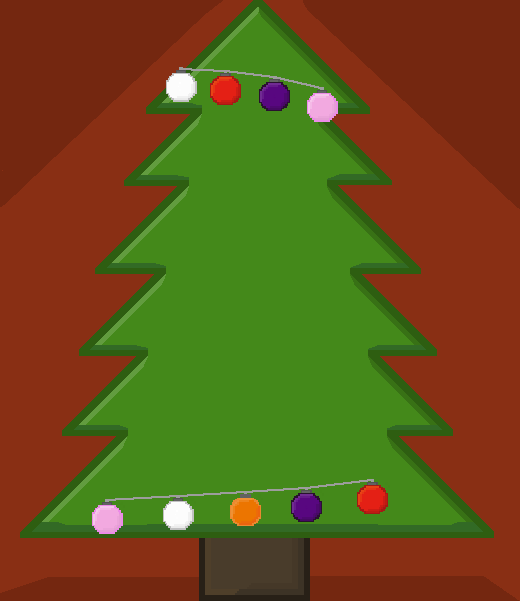
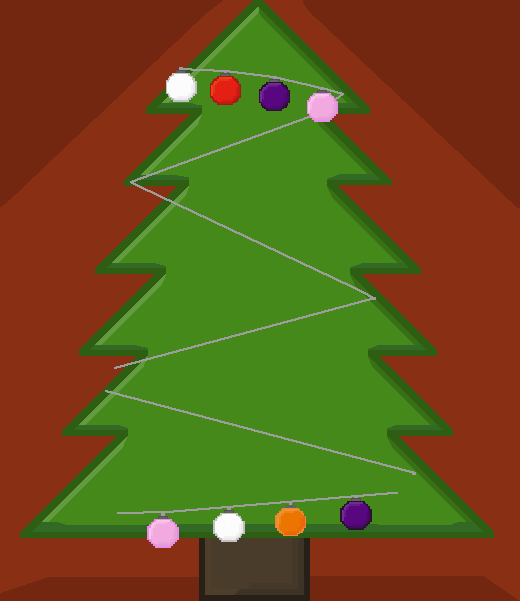
Fixed alignment issues with the tree puzzle

diff --git a/code/Puzzle2.java b/code/Puzzle2.java
@@ -18,17 +18,17 @@ class Puzzle2
 	{
 		// create the window
 		PuzzleTile background = new PuzzleTile(0,0,"images\\knotPuzzle\\tree.png", 520, 601);
-		PuzzleTile selectTool = new PuzzleTile(380,140,"images\\knotPuzzle\\select.png", 35, 35);
+		PuzzleTile selectTool = new PuzzleTile(380,80,"images\\knotPuzzle\\select.png", 35, 35);
 		int selectPosition = 0;
 		int[][] selectPositions = new int[4][2];
 		selectPositions[0][0] = 380;
-		selectPositions[0][1] = 140;
-		selectPositions[1][0] = 100;
-		selectPositions[1][1] = 205;
-		selectPositions[2][0] = 455;
-		selectPositions[2][1] = 295;
-		selectPositions[3][0] = 25;
-		selectPositions[3][1] = 360;
+		selectPositions[0][1] = 80;
+		selectPositions[1][0] = 80;
+		selectPositions[1][1] = 180;
+		selectPositions[2][0] = 410;
+		selectPositions[2][1] = 290;
+		selectPositions[3][0] = 45;
+		selectPositions[3][1] = 365;
 		int puzzleHeight = 601;
 
 		RenderWindow window = new RenderWindow( );
@@ -43,32 +43,32 @@ class Puzzle2
 		PuzzleTile[][] Strings = new PuzzleTile[4][5];
 		PuzzleTile[][] endStrings = new PuzzleTile[4][5];
 		PuzzleTile[] TempHolder = new PuzzleTile[5];
-		PuzzleTile ConstantBulb = new PuzzleTile(302,161,"images\\knotPuzzle\\pinkB.png", 35, 35);
+		PuzzleTile ConstantBulb = new PuzzleTile(305,87,"images\\knotPuzzle\\pinkB.png", 35, 35);
 
 		// strings at start of puzzle game
-		Strings[0][0] = new PuzzleTile(135,213,"images\\knotPuzzle\\orangeB.png", 35, 35);
-		Strings[0][1] = new PuzzleTile(185,210,"images\\knotPuzzle\\purpleB.png", 35, 35);
-		Strings[0][2] = new PuzzleTile(230,195,"images\\knotPuzzle\\pinkB.png", 35, 35);
-		Strings[0][3] = new PuzzleTile(270,185,"images\\knotPuzzle\\silverB.png", 35, 35);
-		Strings[0][4] = new PuzzleTile(302,161,"images\\knotPuzzle\\redB.png", 35, 35);
+	  Strings[0][0] = new PuzzleTile(125,178,"images\\knotPuzzle\\orangeB.png", 35, 35);
+		Strings[0][1] = new PuzzleTile(173,160,"images\\knotPuzzle\\purpleB.png", 35, 35);
+		Strings[0][2] = new PuzzleTile(222,143,"images\\knotPuzzle\\pinkB.png", 35, 35);
+		Strings[0][3] = new PuzzleTile(270,125,"images\\knotPuzzle\\silverB.png", 35, 35);
+		Strings[0][4] = new PuzzleTile(305,87,"images\\knotPuzzle\\redB.png", 35, 35);
 		
-		Strings[1][0] = new PuzzleTile(135,213,"images\\knotPuzzle\\silverB.png", 35, 35);
-		Strings[1][1] = new PuzzleTile(190,255,"images\\knotPuzzle\\purpleB.png", 35, 35);
-		Strings[1][2] = new PuzzleTile(265,280,"images\\knotPuzzle\\pinkB.png", 35, 35);
-		Strings[1][3] = new PuzzleTile(340,295,"images\\knotPuzzle\\redB.png", 35, 35);
-		Strings[1][4] = new PuzzleTile(405,300,"images\\knotPuzzle\\orangeB.png", 35, 35);
+		Strings[1][0] = new PuzzleTile(125,178,"images\\knotPuzzle\\silverB.png", 35, 35);
+		Strings[1][1] = new PuzzleTile(180,214,"images\\knotPuzzle\\purpleB.png", 35, 35);
+		Strings[1][2] = new PuzzleTile(235,240,"images\\knotPuzzle\\pinkB.png", 35, 35);
+		Strings[1][3] = new PuzzleTile(298,268,"images\\knotPuzzle\\redB.png", 35, 35);
+		Strings[1][4] = new PuzzleTile(345,292,"images\\knotPuzzle\\orangeB.png", 35, 35);
 		
-		Strings[2][0] = new PuzzleTile(75,380,"images\\knotPuzzle\\pinkB.png", 35, 35);
-		Strings[2][1] = new PuzzleTile(175,385,"images\\knotPuzzle\\silverB.png", 35, 35);
-		Strings[2][2] = new PuzzleTile(295,370,"images\\knotPuzzle\\redB.png", 35, 35);
-		Strings[2][3] = new PuzzleTile(370,345,"images\\knotPuzzle\\orangeB.png", 35, 35);
-		Strings[2][4] = new PuzzleTile(405,300,"images\\knotPuzzle\\purpleB.png", 35, 35);
+		Strings[2][0] = new PuzzleTile(100,366,"images\\knotPuzzle\\pinkB.png", 35, 35);
+		Strings[2][1] = new PuzzleTile(162,350,"images\\knotPuzzle\\silverB.png", 35, 35);
+		Strings[2][2] = new PuzzleTile(225,333,"images\\knotPuzzle\\redB.png", 35, 35);
+		Strings[2][3] = new PuzzleTile(290,317,"images\\knotPuzzle\\orangeB.png", 35, 35);
+		Strings[2][4] = new PuzzleTile(345,292,"images\\knotPuzzle\\purpleB.png", 35, 35);
 		
-		Strings[3][0] = new PuzzleTile(75,380,"images\\knotPuzzle\\redB.png", 35, 35);
-		Strings[3][1] = new PuzzleTile(145,425,"images\\knotPuzzle\\purpleB.png", 35, 35);
-		Strings[3][2] = new PuzzleTile(225,440,"images\\knotPuzzle\\silverB.png", 35, 35);
-		Strings[3][3] = new PuzzleTile(345,455,"images\\knotPuzzle\\orangeB.png", 35, 35);
-		Strings[3][4] = new PuzzleTile(430,464,"images\\knotPuzzle\\pinkB.png", 35, 35);
+		Strings[3][0] = new PuzzleTile(100,366,"images\\knotPuzzle\\redB.png", 35, 35);
+		Strings[3][1] = new PuzzleTile(165,410,"images\\knotPuzzle\\purpleB.png", 35, 35);
+		Strings[3][2] = new PuzzleTile(240,431,"images\\knotPuzzle\\silverB.png", 35, 35);
+		Strings[3][3] = new PuzzleTile(315,450,"images\\knotPuzzle\\orangeB.png", 35, 35);
+		Strings[3][4] = new PuzzleTile(398,473,"images\\knotPuzzle\\pinkB.png", 35, 35);
 		
 		// strings at end of puzzle
 		endStrings[0][0] = new PuzzleTile(135,213,"images\\knotPuzzle\\silverB.png", 35, 35);
@@ -140,7 +140,7 @@ class Puzzle2
 						break;
 					case KEY_PRESSED:
 						KeyEvent keyEvent = event.asKeyEvent();
-						if ((keyEvent.key == Keyboard.Key.LEFT) || (keyEvent.key == Keyboard.Key.A))
+						if ((keyEvent.key == Keyboard.Key.RIGHT) || (keyEvent.key == Keyboard.Key.D))
 						{
 							for (int i = 0; i < 5; i ++)
 							{
@@ -153,7 +153,7 @@ class Puzzle2
 								Strings[selectPosition][i] = new PuzzleTile(TempHolder[i].getX(),TempHolder[i].getY(), TempHolder[i-1].getPicture(), 35, 35);
 							}
 						}
-						else if ((keyEvent.key == Keyboard.Key.RIGHT) || (keyEvent.key == Keyboard.Key.D))
+						else if ((keyEvent.key == Keyboard.Key.LEFT) || (keyEvent.key == Keyboard.Key.A))
 						{
 							for (int i = 0; i < 5; i ++)
 							{
